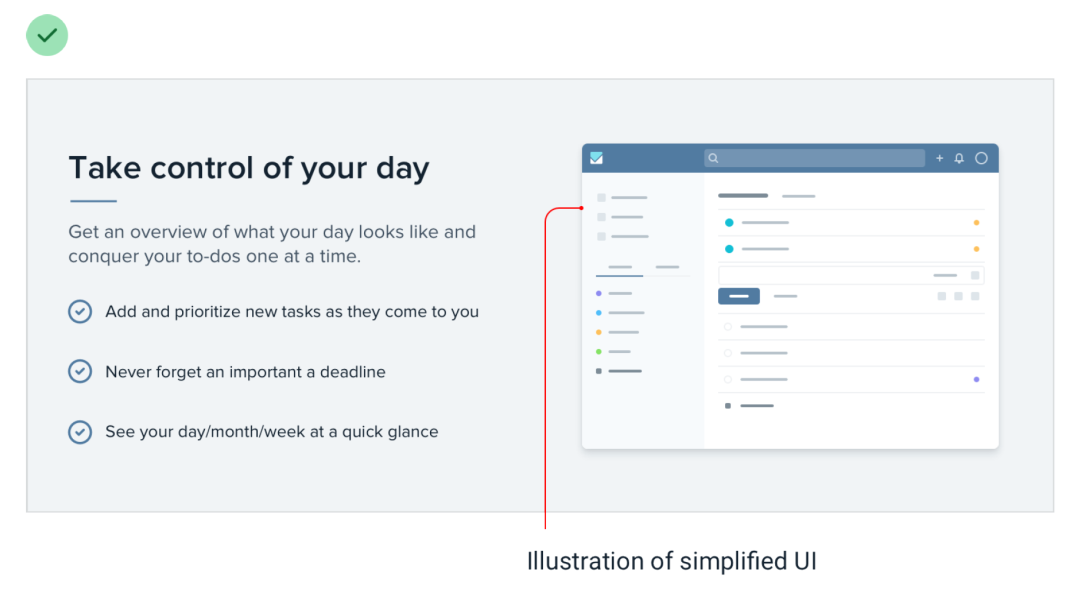
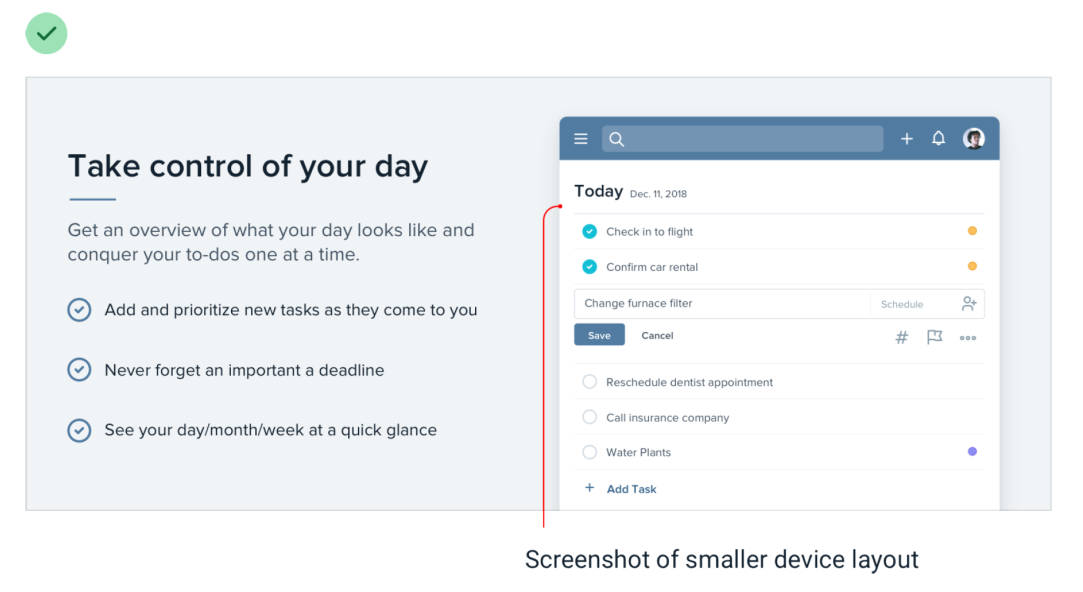
GitBook: [#5] No subject

diff --git a/SUMMARY.md b/SUMMARY.md
@@ -7,8 +7,8 @@
 
 * [Choose a personality](key-principles/choose-a-personality.md)
 * [Systematize everything](key-principles/systematize-everything.md)
-* [Design by elimination](key-principles/design-by-elimination.md)
 * [Start with too much space](key-principles/start-with-too-much-space.md)
+* [Design by elimination](key-principles/design-by-elimination.md)
 * [Think mobile first](key-principles/think-mobile-first.md)
 * [Think in columns](key-principles/think-in-columns.md)
 * [Think outside the box](key-principles/think-outside-the-box.md)
@@ -33,19 +33,19 @@
 * [Avoid too long lines](not-to-do/avoid-too-long-lines.md)
 * [Don't fill the whole screen](not-to-do/dont-fill-the-whole-screen.md)
 * [Don’t center long form text](not-to-do/dont-center-long-form-text.md)
-* [Don’t scale icons and screenshots](not-to-do/dont-scale-icons-and-screenshots.md)
+* [Don’t scale icons/screenshots](not-to-do/dont-scale-icons-and-screenshots.md)
 
 ## Tips and Tricks
 
-* [Combine two shadows](tips-and-tricks/combine-two-shadows.md)
+* [Combine shadows](tips-and-tricks/combine-two-shadows.md)
 * [Emphasize links in a subtle way](tips-and-tricks/emphasize-links-in-a-subtle-way.md)
-* [Add color with accent borders](tips-and-tricks/add-color-with-accent-borders.md)
-* [Overlap elements to create layers](tips-and-tricks/overlap-elements-to-create-layers.md)
-* [Make text stand out on image](tips-and-tricks/make-text-stand-out-on-image-background.md)
-* [Decorate your backgrounds](tips-and-tricks/decorate-your-backgrounds.md)
-* [Look for decisions you wouldn’t have made](tips-and-tricks/look-for-decisions-you-wouldnt-have-made.md)
+* [Add accent borders](tips-and-tricks/add-color-with-accent-borders.md)
+* [Overlap elements](tips-and-tricks/overlap-elements-to-create-layers.md)
+* [Make text stand out](tips-and-tricks/make-text-stand-out-on-image-background.md)
+* [Decorate background](tips-and-tricks/decorate-your-backgrounds.md)
+* [Look for fresh ideas](tips-and-tricks/look-for-decisions-you-wouldnt-have-made.md)
 
 ## Beware
 
-* [Beware user-uploaded content](beware/beware-user-uploaded-content.md)
+* [Beware user content](beware/beware-user-uploaded-content.md)
 * [Beware empty states](beware/beware-empty-states.md)

diff --git a/beware/beware-empty-states.md b/beware/beware-empty-states.md
@@ -1,5 +1,15 @@
 # Beware empty states
 
+## Display add button
+
 If you’re designing something that depends on user-generated content, the empty state should be a priority, not an afterthought.
 
-If you’re working on something that has a bunch of supporting UI like tabs orfilters, consider hiding that stuff entirely. There’s no point in presenting a bunch of actions that don’t do anything until the user has created some content.
+![](../.gitbook/assets/empty-states-bad.png) ![](../.gitbook/assets/empty-states-good.png)
+
+
+
+## Hide tabs and filters
+
+If you’re working on something that has a bunch of supporting UI like tabs or filters, consider hiding that stuff entirely. There’s no point in presenting a bunch of actions that don’t do anything until the user has created some content.
+
+![](../.gitbook/assets/empty-states-clean.png)

diff --git a/tips-and-tricks/overlap-elements-to-create-layers.md b/tips-and-tricks/overlap-elements-to-create-layers.md
@@ -1,19 +1,27 @@
-# Overlap elements to create layers
+# Overlap elements
 
-## Partially 
+## Partially
 
 One of the most effective ways to create depth is to overlap different elements to make it feel like a design has multiple layers.
+
+![](../.gitbook/assets/overlap-elements.png)
 
 ## Both sides
 
 It could overlap on both sides.
 
+![](../.gitbook/assets/overlap-elements-both-sides.png)
+
 ## Smaller components
 
 Overlapping elements can add depth to smaller components too.
+
+![](../.gitbook/assets/overlap-elements-small.png)
 
 ## Images
 
 This technique can work great with images as well. Just give the images an “invisible border” to avoid the clash.
 
+![](../.gitbook/assets/overlap-elements-images-bad.png)
 
+![](../.gitbook/assets/overlap-elements-images-good.png)

diff --git a/not-to-do/dont-scale-icons-and-screenshots.md b/not-to-do/dont-scale-icons-and-screenshots.md
@@ -1,9 +1,21 @@
-# Don’t scale icons and screenshots
+# Don’t scale icons/screenshots
 
-## Don’t scale up icons. 
+## Don’t scale up icons.
 
 Use icons drawn for large size or enclose small icons inside some shape.
 
-## Don’t scale down screenshots. 
+![](../.gitbook/assets/dont-scale-icons1.png)
+
+![](../.gitbook/assets/dont-scale-icons3.png)
+
+## Don’t scale down screenshots.
 
 Use specific area, simplified illustation or smaller device layout.
+
+![](../.gitbook/assets/dont-scale-screenshot-bad.png)
+
+![](../.gitbook/assets/dont-scale-screenshot-good1.png)
+
+![](../.gitbook/assets/dont-scale-screenshot-good2.png)
+
+![](../.gitbook/assets/dont-scale-screenshot-good3.png)

diff --git a/beware/beware-user-uploaded-content.md b/beware/beware-user-uploaded-content.md
@@ -1,9 +1,20 @@
-# Beware user-uploaded content
+# Beware user content
 
-## Control the shape and size 
+## Control the shape and size
 
 Center user images inside fixed containers, cropping out anything that doesn’t fit.
+
+![](../.gitbook/assets/beware-user-content-bad.png)
+
+![](../.gitbook/assets/beware-user-content-good1.png)
+
+![](../.gitbook/assets/beware-user-content-good2.png)
 
 ## Prevent background bleed
 
 Try using a subtle inner box shadow or semi-transparent inner border.
+
+![](../.gitbook/assets/beware-user-content-bleed-bad.png)
+
+![](../.gitbook/assets/beware-user-content-bleed-good1.png) ![](../.gitbook/assets/beware-user-content-bleed-good2.png)
+

diff --git a/tips-and-tricks/decorate-your-backgrounds.md b/tips-and-tricks/decorate-your-backgrounds.md
@@ -1,15 +1,19 @@
-# Decorate your backgrounds
+# Decorate background
 
-## Sections
+## Distinguish sections
 
-Add some distinction between entire page sections.
+![](../.gitbook/assets/decorate-background-color.png)
 
-## Gradient
+## Use a gradient
 
-For best results, use two hues that are no more than about 30° apart.
+![](../.gitbook/assets/decorate-background-gradient.png)
 
-## Repeate pattern
+## Repeat a pattern
 
-http://www.heropatterns.com/
+![](../.gitbook/assets/decorate-background-pattern.png)
+
+{% embed url="http://www.heropatterns.com" %}
 
 ## Add an illustration
+
+![](../.gitbook/assets/decorate-background-illustration.png)

diff --git a/tips-and-tricks/look-for-decisions-you-wouldnt-have-made.md b/tips-and-tricks/look-for-decisions-you-wouldnt-have-made.md
@@ -1,11 +1,19 @@
-# Look for decisions you wouldn’t have made
+# Look for fresh ideas
 
 ## Inverted background color on a datepicker
 
+![](../.gitbook/assets/idea-dark-calendar.png)
+
 ## Button within a text input
 
+![](../.gitbook/assets/idea-inside-button.png)
+
 ## Different font colors for a headline
+
+![](../.gitbook/assets/idea-two-color-headlines.png)
 
 ## Recreate that design from scratch
 
 The absolute best way to notice the little details that make a design look really polished is to recreate that design from scratch, without peeking at the developer tools.
+
+![](../.gitbook/assets/idea-recreate-from-scratch.png)

diff --git a/tips-and-tricks/make-text-stand-out-on-image-background.md b/tips-and-tricks/make-text-stand-out-on-image-background.md
@@ -1,10 +1,20 @@
-# Make text stand out on image
+# Make text stand out
 
 ## Add an overlay
 
+![](../.gitbook/assets/text-background-bad.png)
+
+![](../.gitbook/assets/text-background-overlay.png)
+
 ## Add a text shadow
 
-## Lower the contrast	
+![](../.gitbook/assets/text-background-shadow.png)
+
+## Lower the contrast
+
+![](../.gitbook/assets/text-background-contrast.png)
 
 ## Multiply with a solid color
-	
+
+![](../.gitbook/assets/text-background-multiply.png)
+

diff --git a/not-to-do/dont-fill-the-whole-screen.md b/not-to-do/dont-fill-the-whole-screen.md
@@ -2,4 +2,10 @@
 
 Spreading things out or making things unnecessarily wide just makes an interface harder to interpret, while a little extra space around the edges never hurt anyone.
 
+![](../.gitbook/assets/dont-fill-screen-bad.png)
+
+![](../.gitbook/assets/dont-fill-screen-good.png)
+
 You don’t need to make everything full-width just because something else (like your navigation) is full-width.
+
+![](../.gitbook/assets/dont-fill-screen-good2.png)

diff --git a/tips-and-tricks/add-color-with-accent-borders.md b/tips-and-tricks/add-color-with-accent-borders.md
@@ -1,11 +1,21 @@
-# Add color with accent borders
+# Add accent borders
 
 ## Cards
 
+![](../.gitbook/assets/accent-border-card.png)
+
 ## Menus
+
+![](../.gitbook/assets/accent-border-menu.png)
 
 ## Alerts
 
+![](../.gitbook/assets/accent-border-alert.png)
+
 ## Headlines
 
+![](../.gitbook/assets/accent-border-headline.png)
+
 ## Layouts
+
+![](../.gitbook/assets/accent-border-layout.png)

diff --git a/tips-and-tricks/emphasize-links-in-a-subtle-way.md b/tips-and-tricks/emphasize-links-in-a-subtle-way.md
@@ -1,3 +1,7 @@
 # Emphasize links in a subtle way
 
 Not every link needs a color. They’ll still be discoverable, but won’t compete for attention with more important actions on the page.
+
+![](../.gitbook/assets/emphasize-links-bad.png)
+
+![](../.gitbook/assets/emphasize-links-good.png)

diff --git a/tips-and-tricks/combine-two-shadows.md b/tips-and-tricks/combine-two-shadows.md
@@ -1,2 +1,5 @@
-# Combine two shadows
+# Combine shadows
 
+![](../.gitbook/assets/combine-two-shadows2.png)
+
+![](../.gitbook/assets/combine-two-shadows1.png)
